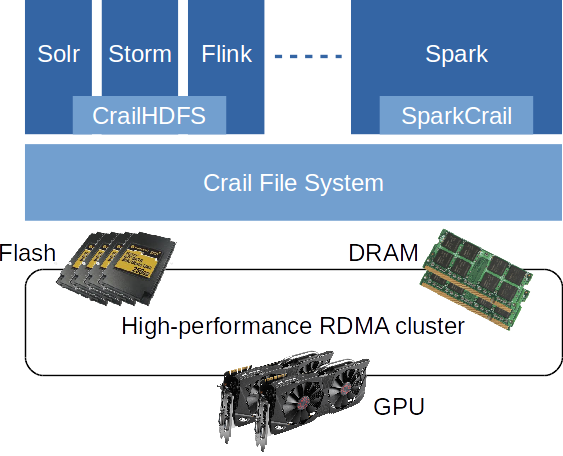
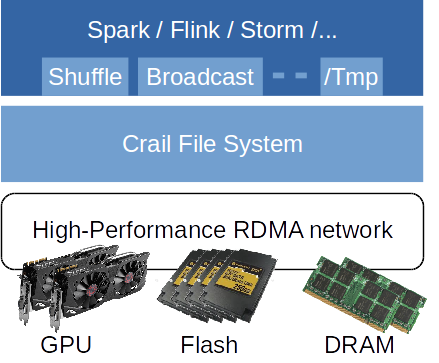
crail stack

diff --git a/index.html b/index.html
@@ -10,7 +10,7 @@ notitle: true
 <br>
 <div>
 <center>
-<img src="{{ site.base }}/img/crail_stack2.png" align="middle" style="width: 340px; text-align:center;">
+<img src="{{ site.base }}/img/crail_stack.png" align="middle" style="width: 340px; text-align:center;">
 </center>
 </div>
 <br>
